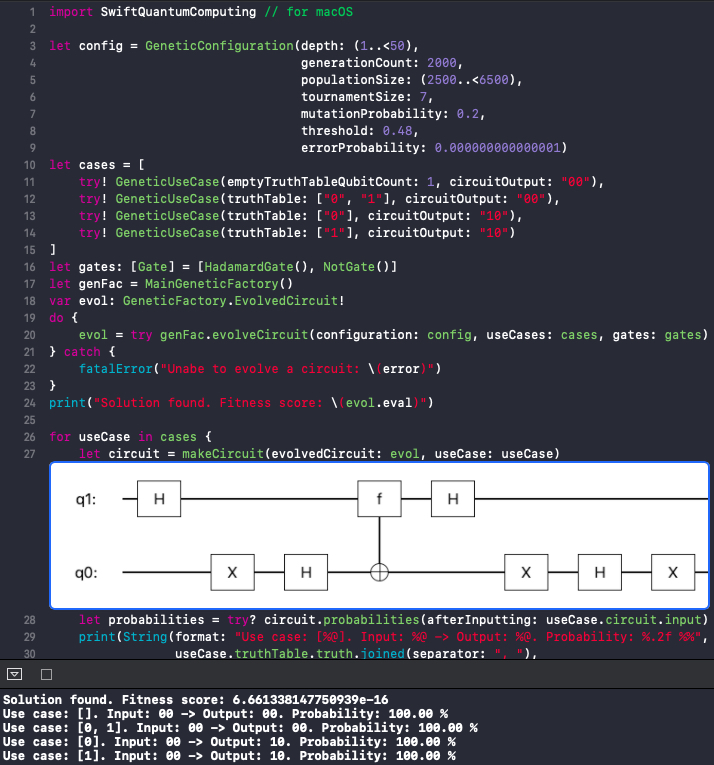
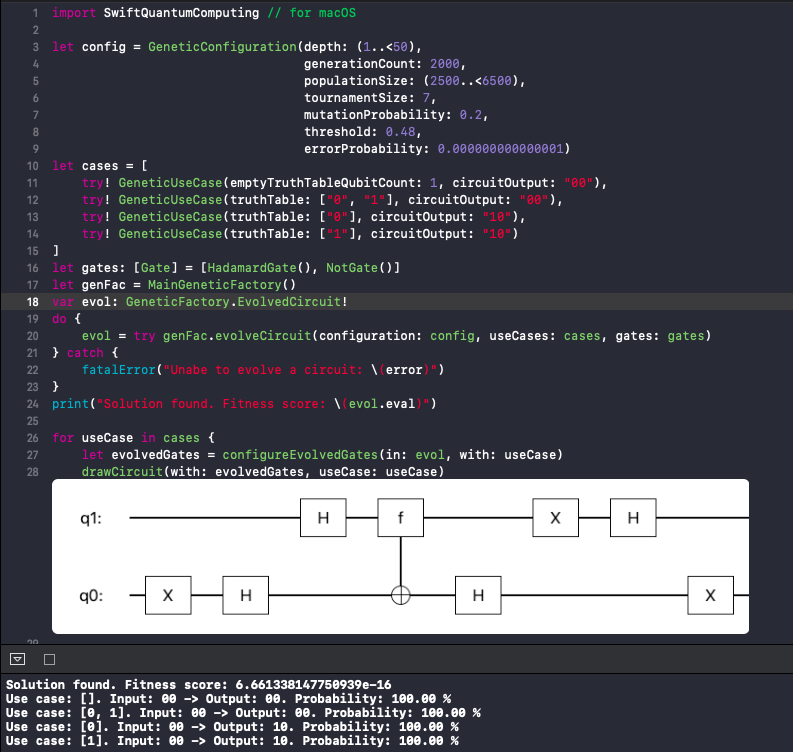
Update README & screenshots

Changed region(s): [[0.0, 0.0, 1.0, 1.0], [0.8011, 0.2141, 0.8319, 0.2447]]

diff --git a/README.md b/README.md
@@ -3,9 +3,9 @@
 [![CI Status](https://travis-ci.org/indisoluble/SwiftQuantumComputing.svg)](https://travis-ci.org/indisoluble/SwiftQuantumComputing)
 [![codecov.io](https://codecov.io/github/indisoluble/SwiftQuantumComputing/coverage.svg)](https://codecov.io/github/indisoluble/SwiftQuantumComputing)
 [![Version](https://img.shields.io/cocoapods/v/SwiftQuantumComputing.svg)](http://cocoapods.org/pods/SwiftQuantumComputing)
-![platforms](https://img.shields.io/badge/platform-iOS%20%7C%20macOS-lightgrey.svg)
+![platforms](https://img.shields.io/badge/platform-iOS%20%7C%20macOS%20%7C%20Linux-lightgrey.svg)
 
-In this repository you can find a quantum circuit simulator written in Swift and speeded up with Accelerate.framework. Along side the simulator there is also a genetic algorithm to automatically generate circuits able to solve a given quantum problem.
+In this repository you can find a quantum circuit simulator written in Swift and speeded up with [Accelerate.framework](https://developer.apple.com/documentation/accelerate) in iOS/macOS and [BLAS](http://www.netlib.org/blas/) in Linux. Along side the simulator there is also a genetic algorithm to automatically generate circuits able to solve a given quantum problem.
 
 The code written so far is mostly based on the content of: [Quantum Computing for Computer Scientists](https://www.amazon.com/Quantum-Computing-Computer-Scientists-Yanofsky/dp/0521879965), with a few tips from [Automatic Quantum Computer Programming: A Genetic Programming Approach](https://www.amazon.com/Automatic-Quantum-Computer-Programming-Approach/dp/038736496X). It is also inspired by [IBM Qiskit](https://github.com/Qiskit/qiskit-terra).
 
@@ -20,3 +20,15 @@ Check `DeutschAlgorithm.playground` for the actual code.
 Or check `Genetic.playground` to see how to configure the genetic algorithm to produce a quantum circuit:
 
 ![Circuit generated with a genetic algorithm](https://raw.githubusercontent.com/indisoluble/SwiftQuantumComputing/master/Images/Genetic.jpg)
+
+### Linux
+
+As mentioned above, this package depends on [BLAS](http://www.netlib.org/blas/) if running on Linux, more exactly, [Ubuntu](https://www.ubuntu.com).
+
+This dependency is reflected in `Package.swift` with [CBLAS-Linux](https://github.com/indisoluble/CBLAS-Linux), which in turn expects to find the following file: `/usr/include/x86_64-linux-gnu/cblas-netlib.h`. So, after installing [BLAS](http://www.netlib.org/blas/) (in case it is not already there):
+
+```
+sudo apt-get install libblas-dev
+```
+
+Check `cblas-netlib.h` is in the expected location.
